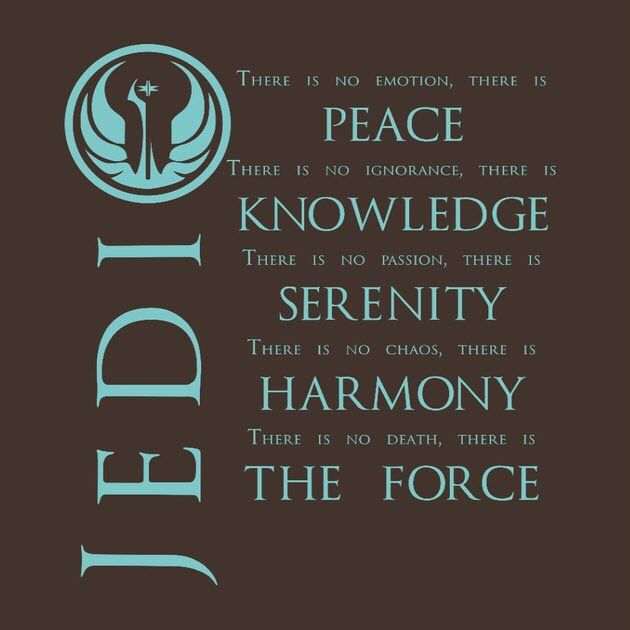
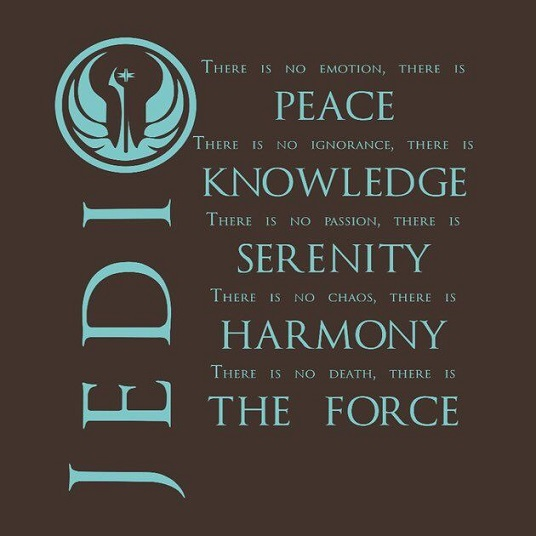
modif photo jedi jpg en png

diff --git a/index.html b/index.html
@@ -1,121 +1,145 @@
 <!DOCTYPE html>
 <html lang="fr">
+
 <head>
     <meta charset="UTF-8">
     <meta http-equiv="X-UA-Compatible" content="IE=edge">
     <meta name="viewport" content="width=device-width, initial-scale=1.0">
-    <link rel="stylesheet" href="./css/bootstrap.css"/>
+    <link rel="stylesheet" href="./css/bootstrap.css" />
     <link rel="stylesheet" href="./css/style.css" />
     <title>projet Bootstrap entrainement</title>
 </head>
+
 <body>
-    
-<header>
-    <nav class="navbar navbar-expand-sm bg-primary fixed-top">
-        <div class="collapse navbar-collapse">
-        <ul>
-            <li><a href="#"><img id="logo"src="./media/stickers-dark-vador-mini-tsp.png"></a></li>
-            <li><a href="#">Côté Lumineux</a></li>
-            <li><a href="#">Dark Side</a></li>
-            <li><a href="#">Young Padawan</a></li>
-            <li><a href="#">Jedi Master</a></li>
-        </ul>
-    
-    </nav>
 
-    <div id="imagePrincipale"></div>
-<h1 id="mainTitle"><a href="#"><img id="titreMontant"  src="https://fontmeme.com/permalink/210731/bffc8596c450e300b8406e9b638f04c8.png" alt="police-star-wars" border="0"></a></h1>
+    <header>
+        <nav class="navbar navbar-expand-sm bg-primary fixed-top">
+            <div class="collapse navbar-collapse">
+                <ul>
+                    <li><a href="#"><img id="logo" src="./media/stickers-dark-vador-mini-tsp.png"></a></li>
+                    <li><a href="#">Côté Lumineux</a></li>
+                    <li><a href="#">Dark Side</a></li>
+                    <li><a href="#">Young Padawan</a></li>
+                    <li><a href="#">Jedi Master</a></li>
+                </ul>
 
-</header>
+        </nav>
 
-<main>
-<div class="container">
-    <div class="row">
-        <div class="col-lg-9" id="leftPart">
+        <div id="imagePrincipale"></div>
+        <h1 id="mainTitle"><a href="#"><img id="titreMontant"
+                    src="https://fontmeme.com/permalink/210731/bffc8596c450e300b8406e9b638f04c8.png"
+                    alt="police-star-wars" border="0"></a></h1>
 
-            <h2>Voyage à travers la galaxie</h2>
-            
-                          
+    </header>
 
-                <div class="row elements">
-                    <div class="col-sm-4">
-                        <img id="yoda" src="./media/yoda-mini.jpg" alt="Yoda">
-                    </div>
-                     <div class="col-sm-8">
-                        <h3>Les Jedi</h3>
-                        <p>Lorem ipsum, dolor sit amet consectetur adipisicing elit. Vel saepe aut quod repudiandae sequi et in soluta suscipit, tempore molestiae esse cupiditate magni id consequatur eaque facere? Perferendis, aperiam similique unde hic cumque deleniti iste.</p>
-                        <div class="button">
-                            <button class="btn btn-primary">La voie La Lumière</button>
+    <main>
+        <div class="container">
+            <div class="row">
+                <div class="col-lg-9" id="leftPart">
+
+                    <h2>Voyage à travers la galaxie</h2>
+
+
+
+                    <div class="row elements">
+                        <div class="col-sm-4">
+                            <img id="yoda" src="./media/yoda-mini.jpg" alt="Yoda">
                         </div>
-                    </div>
-                </div>
-
-                <div class="row elements">
-                    <div class="col-sm-4">
-                        <img id="sidious" src="./media/sidious-mini.jpg" alt="dark sidious">
-                    </div>
-                     <div class="col-sm-8">
-                        <h3>Les Sith</h3>
-                        <p>Lorem ipsum, dolor sit amet consectetur adipisicing elit. Vel saepe aut quod repudiandae sequi et in soluta suscipit, tempore molestiae esse cupiditate magni id consequatur eaque facere? Perferendis, aperiam similique unde hic cumque deleniti iste.</p>
-                        <div class="button">
-                             <button class="btn btn-primary">La voie de l'Obscurité</button>
-                        </div>
-                    </div>
-                </div>
-
-                <div class="row elements">
-                    <div class="col-sm-4">
-                        <img id="bobba" src="./media/bobba-mini.png" alt="Bobba Fett">
-                    </div>
-                    <div class="col-sm-8">
-                        <h3>Les Chasseurs de Primes</h3>
-                        <p>Lorem ipsum, dolor sit amet consectetur adipisicing elit. Vel saepe aut quod repudiandae sequi et in soluta suscipit, tempore molestiae esse cupiditate magni id consequatur eaque facere? Perferendis, aperiam similique unde hic cumque deleniti iste.</p>
+                        <div class="col-sm-8">
+                            <h3>Les Jedi</h3>
+                            <p>Lorem ipsum, dolor sit amet consectetur adipisicing elit. Vel saepe aut quod repudiandae
+                                sequi et in soluta suscipit, tempore molestiae esse cupiditate magni id consequatur
+                                eaque facere? Perferendis, aperiam similique unde hic cumque deleniti iste.</p>
                             <div class="button">
-                            <button class="btn btn-primary">la voie de la technologie</button>
+                                <button class="btn btn-primary">La voie La Lumière</button>
                             </div>
+                        </div>
+                    </div>
+
+                    <div class="row elements">
+                        <div class="col-sm-4">
+                            <img id="sidious" src="./media/sidious-mini.jpg" alt="dark sidious">
+                        </div>
+                        <div class="col-sm-8">
+                            <h3>Les Sith</h3>
+                            <p>Lorem ipsum, dolor sit amet consectetur adipisicing elit. Vel saepe aut quod repudiandae
+                                sequi et in soluta suscipit, tempore molestiae esse cupiditate magni id consequatur
+                                eaque facere? Perferendis, aperiam similique unde hic cumque deleniti iste.</p>
+                            <div class="button">
+                                <button class="btn btn-primary">La voie de l'Obscurité</button>
+                            </div>
+                        </div>
+                    </div>
+
+                    <div class="row elements">
+                        <div class="col-sm-4">
+                            <img id="bobba" src="./media/bobba-mini.png" alt="Bobba Fett">
+                        </div>
+                        <div class="col-sm-8">
+                            <h3>Les Chasseurs de Primes</h3>
+                            <p>Lorem ipsum, dolor sit amet consectetur adipisicing elit. Vel saepe aut quod repudiandae
+                                sequi et in soluta suscipit, tempore molestiae esse cupiditate magni id consequatur
+                                eaque facere? Perferendis, aperiam similique unde hic cumque deleniti iste.</p>
+                            <div class="button">
+                                <button class="btn btn-primary">la voie de la technologie</button>
+                            </div>
+                        </div>
+                    </div>
+
+                    <div class="row elements">
+                        <div class="col-sm-4">
+                            <img id="hanSolo" src="./media/hanSolo-mini.jpg" alt="Han Solo">
+                        </div>
+                        <div class="col-sm-8">
+                            <h3>Les Braves</h3>
+                            <p>Lorem ipsum, dolor sit amet consectetur adipisicing elit. Vel saepe aut quod repudiandae
+                                sequi et in soluta suscipit, tempore molestiae esse cupiditate magni id consequatur
+                                eaque facere? Perferendis, aperiam similique unde hic cumque deleniti iste.</p>
+                            <div class="button">
+                                <button class="btn btn-primary">la voie du courage</button>
+                            </div>
+                        </div>
+                    </div>
+
+                </div>
+
+                <div class="col-lg-3" id="rightPart">
+                    <h2>Les valeurs des voies de la Force</h2>
+                    <div class="sideCode">
+                        <h4>Le Code Jedi</h4>
+                        <a href="./media/Code-jedi.png" target="_blank">
+                            <div class="lesCodes" style="background: url(./media/Code-jedi.jpg)no-repeat 50% 50%;">
+                            </div>
+                        </a>
+                    </div>
+                    <div class="sideCode">
+                        <h4>Le Code Sith</h4>
+                        <a href="./media/sith-code.jpg" target="_blank">
+                            <div class="lesCodes" style="background: url(./media/sith-code.jpg)no-repeat 50% 50%;">
+                            </div>
+                        </a>
+                    </div>
+                    <div class="sideCode">
+                        <h4>Le Code des Jedi gris</h4>
+                        <a href="./media/gray-code.jpg" target="_blank">
+                            <div class="lesCodes" style="background: url(./media/gray-code.jpg)no-repeat 50% 50%;">
+                            </div>
+                        </a>
+                    </div>
+                    <div class="sideCode">
+                        <h4>3 codes, 1 seule Force</h4>
+                        <a href="./media/grey-jedi-code.jpg" target="_blank">
+                            <div class="lesCodes" style="background: url(./media/grey-jedi-code.jpg)no-repeat 50% 50%;">
+                            </div>
+                        </a>
                     </div>
                 </div>
 
-                <div class="row elements">
-                    <div class="col-sm-4">
-                        <img id="hanSolo" src="./media/hanSolo-mini.jpg" alt="Han Solo">
-                    </div>
-                     <div class="col-sm-8">
-                        <h3>Les Braves</h3>
-                        <p>Lorem ipsum, dolor sit amet consectetur adipisicing elit. Vel saepe aut quod repudiandae sequi et in soluta suscipit, tempore molestiae esse cupiditate magni id consequatur eaque facere? Perferendis, aperiam similique unde hic cumque deleniti iste.</p>
-                        <div class="button">
-                            <button class="btn btn-primary">la voie du courage</button>
-                        </div>
-                    </div>
-                </div>
-            
+            </div>
         </div>
 
-            <div class="col-lg-3" id="rightPart">
-                <h2>Les valeurs des voies de la Force</h2>
-                <div class="sideCode">
-                    <h4>Le Code Jedi</h4>
-                    <a href="./media/Code-jedi.jpg" target="_blank"><div class="lesCodes" style="background: url(./media/Code-jedi.jpg)no-repeat 50% 50%;"></div></a>
-                </div>
-                <div class="sideCode">
-                    <h4>Le Code Sith</h4>
-                    <a href="./media/sith-code.jpg" target="_blank"><div class="lesCodes" style="background: url(./media/sith-code.jpg)no-repeat 50% 50%;"></div></a>  
-                </div>
-                <div class="sideCode">
-                    <h4>Le Code des Jedi gris</h4>
-                    <a href="./media/gray-code.jpg" target="_blank"><div class="lesCodes" style="background: url(./media/gray-code.jpg)no-repeat 50% 50%;"></div></a>
-                </div>
-                <div class="sideCode">
-                    <h4>3 codes, 1 seule Force</h4>
-                    <a href="./media/grey-jedi-code.jpg" target="_blank"><div class="lesCodes" style="background: url(./media/grey-jedi-code.jpg)no-repeat 50% 50%;"></div></a>
-                </div>
-            </div>
-    
-    </div>
-</div>
-
         <div id="transition">
-         <img src="media/sabre.png" alt="sabre laser" id="sabre">
+            <img src="media/sabre.png" alt="sabre laser" id="sabre">
         </div>
 
 
@@ -125,24 +149,22 @@
             <h4>Rejoignez la Force</h4>
 
             <div class="input-group">
-                    <input type="email"class="form-control" placeholder= "placez votre email dans l'holocron">
+                <input type="email" class="form-control" placeholder="placez votre email dans l'holocron">
                 <div class="input-group-append">
                     <button class="btn btn-primary">Méditer</button>
                 </div>
             </div>
         </div>
-    
+
     </main>
 
 
 
     <footer>
         <img id="logoFoot" src="./media/stickers-dark-vador-mini-tsp.png" alt="logo">
-         <p>© BenjCorp™ 2021</p>
+        <p>© BenjCorp™ 2021</p>
         <a href="https://fontmeme.com/fr/police-star-wars/">Crédit police Star Wars</a>
-    <footer>
-    
-            
+        <footer>
 
 
 
@@ -151,8 +173,10 @@
 
 
 
-<script src="./js/jquery.js"></script>
-<script src="./js/script.js"></script>
+
+
+            <script src="./js/jquery.js"></script>
+            <script src="./js/script.js"></script>
 </body>
 
 </html>
